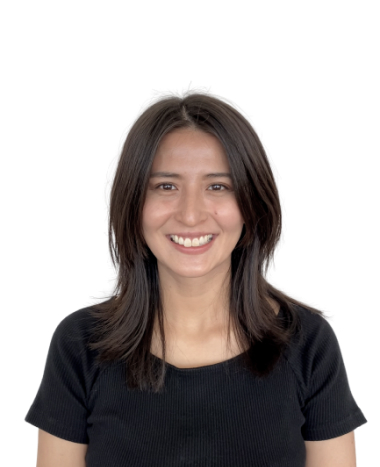
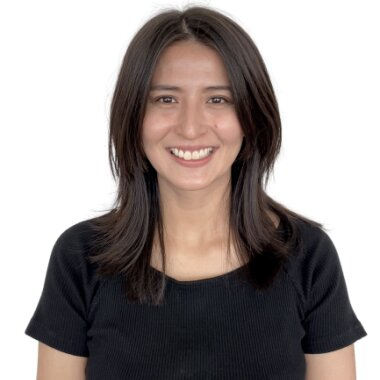
Updated css

Changed region(s): [[0.0579, 0.0, 0.9842, 0.9553], [0.2316, 0.8684, 0.2605, 0.8974]]

diff --git a/index.html b/index.html
@@ -4,6 +4,10 @@
   <meta charset="UTF-8">
   <meta http-equiv="X-UA-Compatible" content="IE=edge">
   <meta name="viewport" content="width=device-width, initial-scale=1.0">
+  <link rel="preconnect" href="https://fonts.googleapis.com">
+  <link rel="preconnect" href="https://fonts.gstatic.com" crossorigin>
+  <link href="https://fonts.googleapis.com/css2?family=Abril+Fatface&family=Bodoni+Moda:wght@900&display=swap" rel="stylesheet">
+
   <link rel="stylesheet" href="https://cdn.jsdelivr.net/npm/bootstrap@4.0.0/dist/css/bootstrap.min.css" integrity="sha384-Gn5384xqQ1aoWXA+058RXPxPg6fy4IWvTNh0E263XmFcJlSAwiGgFAW/dAiS6JXm" crossorigin="anonymous">
   <link rel="stylesheet" href="css/normalize.css">
   <link rel="stylesheet" href="css/style.css">
@@ -12,45 +16,58 @@
 </head>
 
 <body>
-  <header class="header-img">
+  <header>
     <div class="header">
-      <nav>
-        <ul>
-          <li><a href=""></a>About</li>
-          <li><a href=""></a>Works</li>
-          <li><a href=""></a>Contact</li>
-        </ul>
-      </nav>
-      <h1>Hello! I'm Chiaki</h1>
-      <h2>A Web Designer and Developer</h2>
-    </div>
-      
+      <div class="header-text">
+        <nav>
+          <ul>
+            <li><a href=""></a>About</li>
+            <li><a href=""></a>Works</li>
+            <li><a href=""></a>Contact</li>
+          </ul>
+        </nav>
+        <h1>Hello! I'm Chiaki</h1>
+        <h3>A Web Designer and Developer</h3>
+      </div>
+
+    </div> 
   </header>
 
   <main>
+    <!-- about -->
     <section>
-      <h3 class="about">About Me</h3>
-      <div class="container text-center">
+      <h3 class="section">About Me</h3>
+      <div class="container text-center mt-4">
         <div class="row">
-          <div class="col">
+          <div class="col-sm-5 mb-2">
             <img class="bio-photo" src="img/bio.jpg" alt="">
           </div>
-          <div class="col">
-            <h3>Chiaki Yamada</h3>
-            <p>texttexttexttexttexttexttexttexttexttexttexttexttexttexttexttexttexttexttexttexttexttexttexttexttexttexttexttexttexttexttexttexttexttexttexttext</p>
+          <div class="col-sm-7">
+            <h4>Chiaki Yamada</h4>
+            <p class="bio-text">texttexttexttexttexttexttexttexttexttexttexttexttexttexttexttexttexttexttexttexttexttexttexttexttexttexttexttexttexttexttexttexttexttexttexttexttexttexttexttexttexttexttexttexttexttexttexttexttexttexttexttexttexttexttexttexttexttexttextte</p>
             
           </div>
         </div>
       </div>
-
     </section>
-    
-      
-      
 
-
-
+    <!-- works -->
     <section>
+      <h3 class="section">Works</h3>
+      <p class="works-text">texttexttexttexttexttexttexttexttexttexttexttexttexttexttexttexttexttexttexttexttexttexttexttexttexttexttexttexttexttexttexttexttexttextte</p>
+      <div class="container text-center">
+        <div class="row">
+          <div class="col-sm-4">
+            Column
+          </div>
+          <div class="col-sm-4">
+            Column
+          </div>
+          <div class="col-sm-4">
+            Column
+          </div>
+        </div>
+      </div>
 
     </section>
     

diff --git a/css/style.css b/css/style.css
@@ -1,33 +1,62 @@
 body {
   box-sizing: border-box;
+  font-family: serif;
+  font-size: 0.75rem;
 }
+
 /* -------- heaer ------------ */
-.header-img {
+.header {
   background-image: url("file:///Users/chiaki/Desktop/header.jpg");
   background-size: cover;
   width: 100%;
-  height: 250px;
+}
+.header-text {
+  font-family: 'Bodoni Moda';
+  color: #ffff;
+  padding: 5% 8%;
 }
 li {
   list-style: none;
- 
-  
+  margin-right: 8%;
+  font-family: serif;
 }
-.header {
-  color: #ffff;
-}
-  
-.header h1, h2 {
-  text-align: center;
-}
-.about {
-  text-align: center;
-  margin-top: 30px;
+nav ul {
+  display: flex;
+  padding-left: 0;
 }
 
+/* -------main ------------- */
+main {
+  padding: 5% 8%;
+}
 
+/* ------- about ------------- */
+.section {
+  text-align: center;
+  margin-top: 10px;
+  font-family: 'Bodoni Moda';
+  border-top: .2px solid #242424;
+  border-bottom: .2px solid #242424;
+  padding: 10px;
+}
 .bio-photo{
-  width: 60%;
+  width: 50%;
   height: auto;
+}
+.bio-text {
+  word-wrap: break-word;
+  text-align: left;
+}
+.container {
+  margin-bottom: 10px;
+  color: #565555;
+}
+
+/* ------- works ------------- */
+.works-text {
+  word-wrap: break-word;
+  text-align: center;
+  padding: 5%;
+
 }
 
